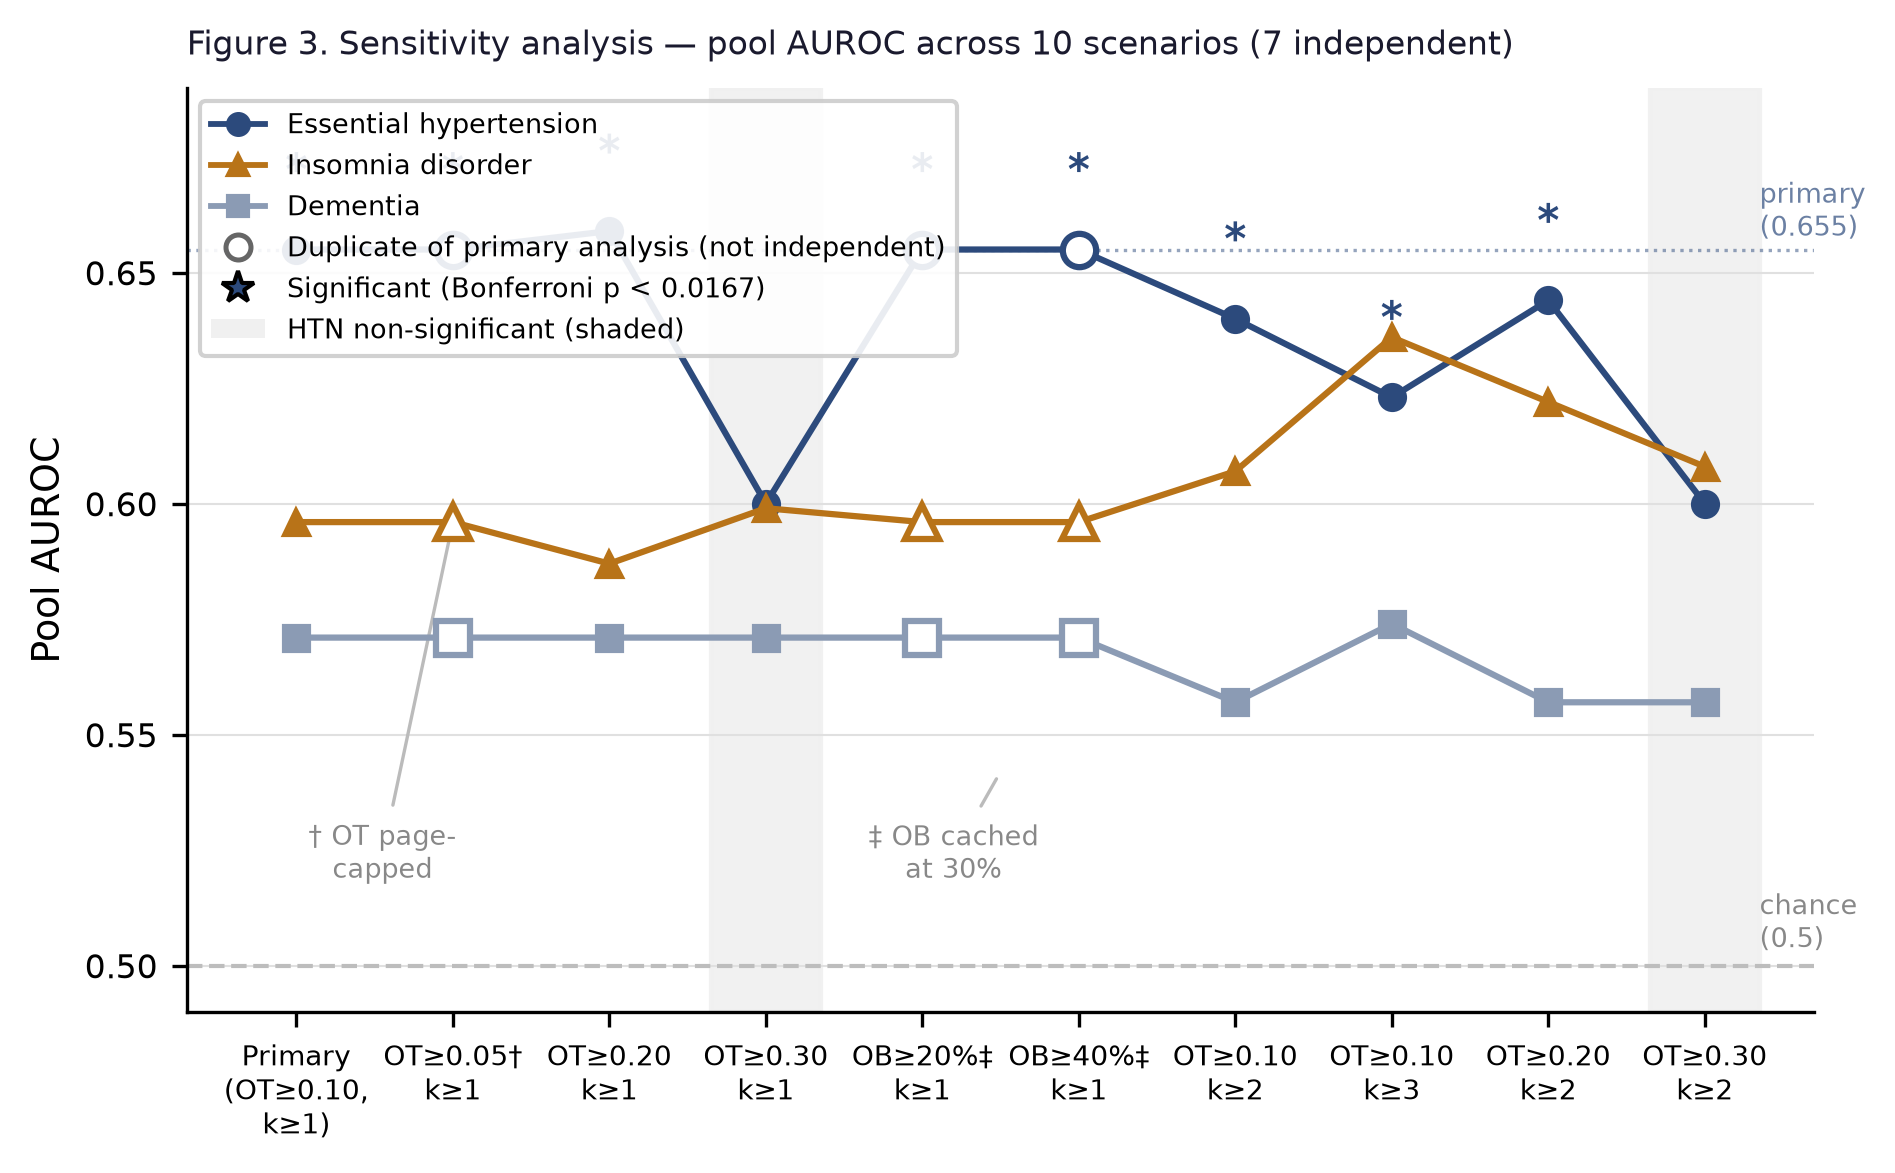
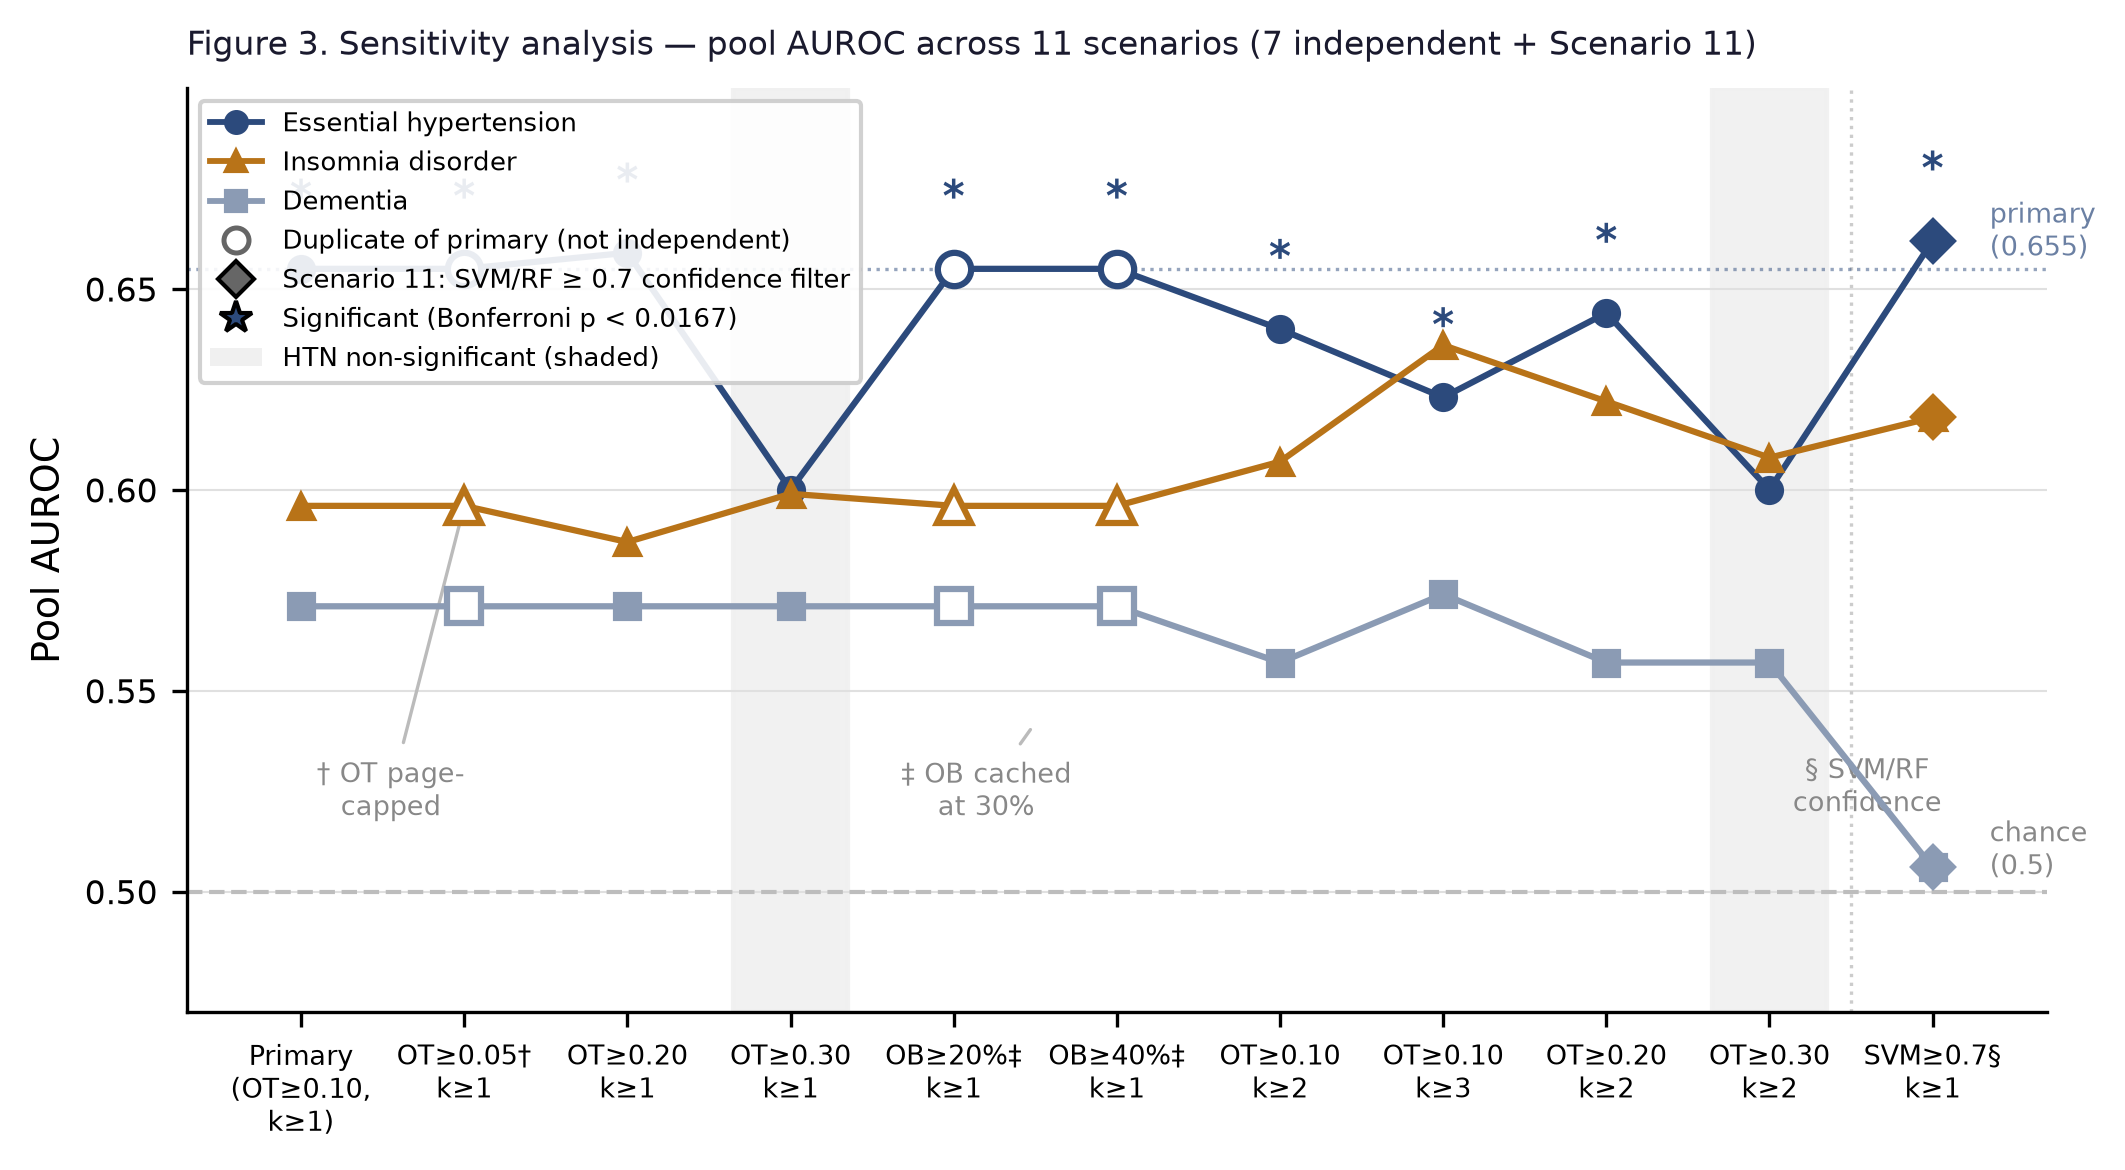
Add supplementary tables and regenerate Figure 3 with Scenario 11
- Regenerate Figure 3 (sensitivity analysis) extended to 11 scenarios,
  adding SVM/RF ≥ 0.7 confidence threshold (Scenario 11) with diamond markers
- Add Supplementary Table S1: systematic herb exclusions with reasons
- Add Supplementary Table S2: full sensitivity results for all 11 scenarios
  (HTN/INS/DEM AUROC and permutation p-values)
- Add Supplementary Table S3: 3×3 cross-disease pool AUROC matrix

diff --git a/paper/generate_figures.py b/paper/generate_figures.py
@@ -281,7 +281,7 @@ def make_figure2():
 # Figure 3 — Sensitivity analysis line plot
 # ════════════════════════════════════════════════════════════════════
 def make_figure3():
-    scenarios = list(range(1, 11))
+    scenarios = list(range(1, 12))
     labels_x = [
         "Primary\n(OT≥0.10,\nk≥1)",
         "OT≥0.05†\nk≥1",
@@ -293,24 +293,23 @@ def make_figure3():
         "OT≥0.10\nk≥3",
         "OT≥0.20\nk≥2",
         "OT≥0.30\nk≥2",
+        "SVM≥0.7§\nk≥1",
     ]
 
-    # From Table S2 (corrected formula pool: Longdan Xiegan Tang / Zhenggan Xifeng
-    # Tang replaced with Xuefu Zhuyu Tang / Buzhong Yiqi Tang per the real NIKOM CPG)
-    htn_auroc = [0.655, 0.655, 0.659, 0.600, 0.655, 0.655, 0.640, 0.623, 0.644, 0.600]
-    htn_sigp  = [0.0005, 0.0005, 0.0005, 0.030, 0.0005, 0.0005, 0.006, 0.014, 0.003, 0.046]
-    ins_auroc = [0.596, 0.596, 0.587, 0.599, 0.596, 0.596, 0.607, 0.636, 0.622, 0.608]
-    ins_sigp  = [0.054, 0.054, 0.081, 0.059, 0.054, 0.054, 0.048, 0.027, 0.026, 0.041]
-    dem_auroc = [0.571, 0.571, 0.571, 0.571, 0.571, 0.571, 0.557, 0.574, 0.557, 0.557]
-    dem_sigp  = [0.146, 0.146, 0.146, 0.146, 0.146, 0.146, 0.188, 0.136, 0.188, 0.188]
+    # Scenarios 1-10: OT/OB/overlap parameter sweep
+    # Scenario 11: TCMSP SVM/RF confidence threshold >= 0.7
+    htn_auroc = [0.655, 0.655, 0.659, 0.600, 0.655, 0.655, 0.640, 0.623, 0.644, 0.600, 0.662]
+    htn_sigp  = [0.0005, 0.0005, 0.0005, 0.030, 0.0005, 0.0005, 0.006, 0.014, 0.003, 0.046, 0.003]
+    ins_auroc = [0.596, 0.596, 0.587, 0.599, 0.596, 0.596, 0.607, 0.636, 0.622, 0.608, 0.618]
+    ins_sigp  = [0.054, 0.054, 0.081, 0.059, 0.054, 0.054, 0.048, 0.027, 0.026, 0.041, 0.039]
+    dem_auroc = [0.571, 0.571, 0.571, 0.571, 0.571, 0.571, 0.557, 0.574, 0.557, 0.557, 0.506]
+    dem_sigp  = [0.146, 0.146, 0.146, 0.146, 0.146, 0.146, 0.188, 0.136, 0.188, 0.188, 0.451]
 
     BONF = 0.0167
-    x = np.arange(1, 11)
+    x = np.arange(1, 12)
 
-    fig, ax = plt.subplots(figsize=(7.0, 4.0))
+    fig, ax = plt.subplots(figsize=(8.0, 4.0))
 
-    # Fill for significant region (above Bonferroni for HTN)
-    # Shade scenarios where HTN is significant
     htn_sig_mask = [p < BONF for p in htn_sigp]
 
     # Plot lines
@@ -321,8 +320,8 @@ def make_figure3():
     ax.plot(x, dem_auroc, color=C_NULL, marker="s", ms=6, lw=1.5,
             label="Dementia", zorder=4)
 
-    # Mark duplicate scenarios (2, 5, 6) with open markers (identical to primary)
-    for idx in [1, 4, 5]:   # 0-based: scenarios 2, 5, and 6
+    # Mark duplicate scenarios (2, 5, 6) with open markers
+    for idx in [1, 4, 5]:
         ax.plot(x[idx], htn_auroc[idx], "o", ms=8, mfc="white",
                 mec=C_SIG, mew=1.5, zorder=5)
         ax.plot(x[idx], ins_auroc[idx], "^", ms=8, mfc="white",
@@ -330,7 +329,15 @@ def make_figure3():
         ax.plot(x[idx], dem_auroc[idx], "s", ms=8, mfc="white",
                 mec=C_NULL, mew=1.5, zorder=5)
 
-    # Mark significant HTN scenarios with * below the marker
+    # Scenario 11: diamond marker to distinguish from main scenarios
+    ax.plot(x[10], htn_auroc[10], "D", ms=7, color=C_SIG,   zorder=6)
+    ax.plot(x[10], ins_auroc[10], "D", ms=7, color=C_TREND, zorder=6)
+    ax.plot(x[10], dem_auroc[10], "D", ms=7, color=C_NULL,  zorder=6)
+
+    # Vertical separator before Scenario 11
+    ax.axvline(10.5, color="#CCCCCC", lw=0.8, ls=":", zorder=1)
+
+    # Mark significant HTN scenarios
     for i, (auroc, sig) in enumerate(zip(htn_auroc, htn_sig_mask)):
         if sig:
             ax.text(x[i], auroc + 0.012, "*", ha="center", va="bottom",
@@ -340,63 +347,55 @@ def make_figure3():
     ax.axhline(0.5,   color=C_RANDOM, lw=1.0, ls="--", zorder=1)
     ax.axhline(0.655, color=C_SIG,    lw=0.8, ls=":",  alpha=0.5, zorder=1)
 
-    ax.text(10.35, 0.502, "chance\n(0.5)", va="bottom", ha="left",
+    ax.text(11.35, 0.502, "chance\n(0.5)", va="bottom", ha="left",
             fontsize=6.5, color="#888888", clip_on=False)
-    ax.text(10.35, 0.656, "primary\n(0.655)", va="bottom", ha="left",
+    ax.text(11.35, 0.656, "primary\n(0.655)", va="bottom", ha="left",
             fontsize=6.5, color=C_SIG, alpha=0.7, clip_on=False)
 
-    # OB-cached annotation
-    ax.annotate(
-        "‡ OB cached\nat 30%",
-        xy=(5.5, 0.542), xytext=(5.2, 0.519),
-        fontsize=6.5, color="#888888",
-        arrowprops=dict(arrowstyle="-", color="#BBBBBB", lw=0.8),
-        ha="center",
-    )
-
-    # OT page-cap annotation (scenario 2 duplicates primary for same reason
-    # OpenTargets page is already exhausted at OT>=0.10 for all three diseases)
-    ax.annotate(
-        "† OT page-\ncapped",
-        xy=(2, 0.596), xytext=(1.55, 0.519),
-        fontsize=6.5, color="#888888",
-        arrowprops=dict(arrowstyle="-", color="#BBBBBB", lw=0.8),
-        ha="center",
-    )
+    # Annotations
+    ax.annotate("‡ OB cached\nat 30%",
+        xy=(5.5, 0.542), xytext=(5.2, 0.519), fontsize=6.5, color="#888888",
+        arrowprops=dict(arrowstyle="-", color="#BBBBBB", lw=0.8), ha="center")
+    ax.annotate("† OT page-\ncapped",
+        xy=(2, 0.596), xytext=(1.55, 0.519), fontsize=6.5, color="#888888",
+        arrowprops=dict(arrowstyle="-", color="#BBBBBB", lw=0.8), ha="center")
+    ax.annotate("§ SVM/RF\nconfidence",
+        xy=(11, 0.506), xytext=(10.6, 0.520), fontsize=6.5, color="#888888",
+        arrowprops=dict(arrowstyle="-", color="#BBBBBB", lw=0.8), ha="center")
 
     ax.set_xticks(x)
-    ax.set_xticklabels(labels_x, fontsize=6.8, ha="center")
+    ax.set_xticklabels(labels_x, fontsize=6.5, ha="center")
     ax.set_ylabel("Pool AUROC", fontsize=9)
-    ax.set_xlim(0.3, 10.7)
-    ax.set_ylim(0.49, 0.69)
+    ax.set_xlim(0.3, 11.7)
+    ax.set_ylim(0.47, 0.70)
     ax.set_yticks([0.50, 0.55, 0.60, 0.65])
     ax.yaxis.grid(True, lw=0.5, color="#E0E0E0", zorder=0)
     ax.set_axisbelow(True)
 
-    # Shaded columns for the two scenarios where HTN is non-significant
-    # (4 and 10: both OT >= 0.30, reduced disease gene set)
-    for idx in [3, 9]:   # scenarios 4 and 10 (0-based)
+    # Shaded columns for HTN non-significant scenarios (4, 10)
+    for idx in [3, 9]:
         ax.axvspan(x[idx] - 0.35, x[idx] + 0.35, color="#F0F0F0", zorder=0, alpha=0.9)
 
-    # Legend
     legend_elements = [
         Line2D([0], [0], color=C_SIG,   marker="o", ms=5, label="Essential hypertension"),
         Line2D([0], [0], color=C_TREND, marker="^", ms=5, label="Insomnia disorder"),
         Line2D([0], [0], color=C_NULL,  marker="s", ms=5, label="Dementia"),
         Line2D([0], [0], color="none",  marker="o", ms=6, mfc="white",
-               mec="#666666", mew=1.2, label="Duplicate of primary analysis (not independent)"),
+               mec="#666666", mew=1.2, label="Duplicate of primary (not independent)"),
+        Line2D([0], [0], color="none",  marker="D", ms=6, mfc="#666666",
+               label="Scenario 11: SVM/RF ≥ 0.7 confidence filter"),
         Line2D([0], [0], color="none",  marker="*", ms=8, mfc=C_SIG, linestyle="None",
                label="Significant (Bonferroni p < 0.0167)"),
         mpatches.Patch(facecolor="#F0F0F0", label="HTN non-significant (shaded)"),
     ]
-    ax.legend(handles=legend_elements, fontsize=6.5, loc="upper left",
+    ax.legend(handles=legend_elements, fontsize=6.2, loc="upper left",
               framealpha=0.9, edgecolor="#CCCCCC", ncol=1)
 
     ax.spines["top"].set_visible(False)
     ax.spines["right"].set_visible(False)
 
     ax.set_title(
-        "Figure 3. Sensitivity analysis — pool AUROC across 10 scenarios (7 independent)",
+        "Figure 3. Sensitivity analysis — pool AUROC across 11 scenarios (7 independent + Scenario 11)",
         fontsize=8, loc="left", pad=8, color=C_TEXT,
     )
 
